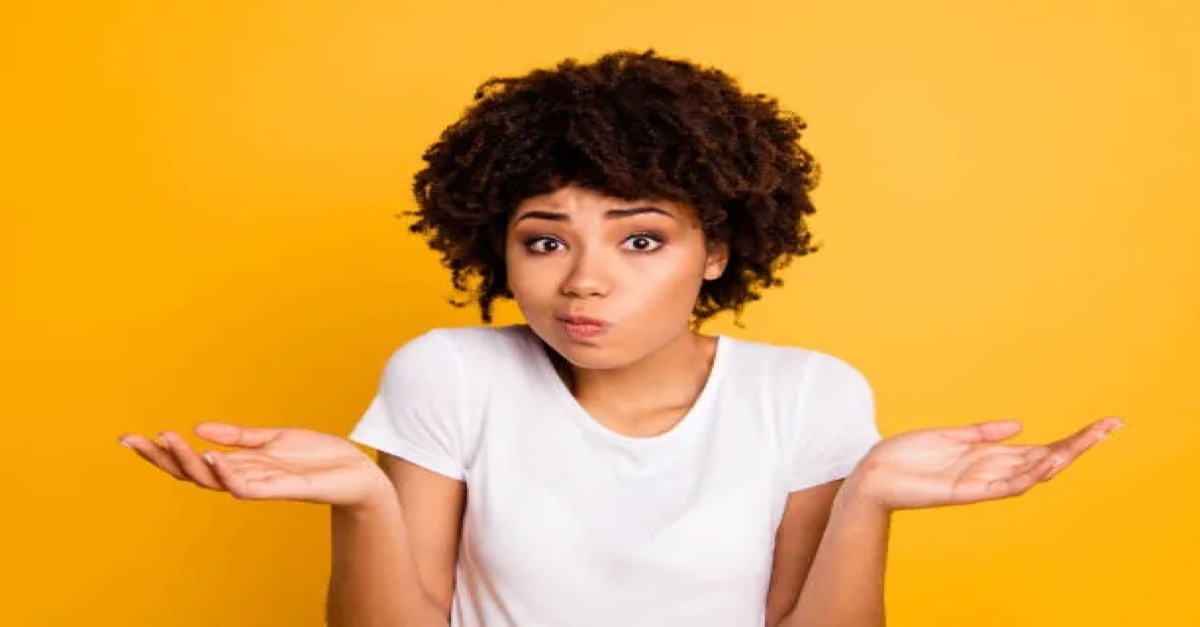
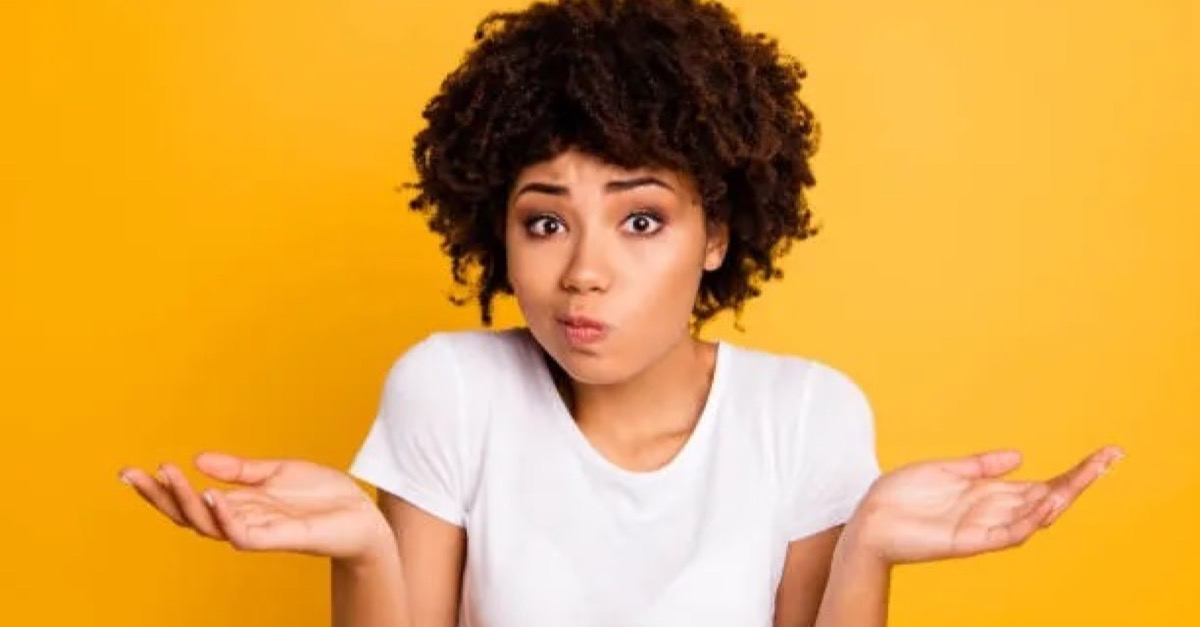
fix: correct image aspect ratios for og images and update logging

Changed region(s): [[0.0925, 0.0, 0.9558, 1.0]]

diff --git a/hooks/useInfoLog.ts b/hooks/useInfoLog.ts
@@ -1,11 +1,17 @@
-import { useEffect } from 'react';
+import { useEffect, useRef } from 'react';
 
 export default function useInfoLog(): void {
+  const hasRun = useRef(false);
   useEffect(() => {
+    if (hasRun.current) return;
+    hasRun.current = true;
     console.log('%cHi Everyone!', 'color: lime; font-size: 50px');
     console.log(
-      "%cLife is short, so make it good. Love yourself, do for others, and take it but take lite. --Naeem",
+      "%cLife is short, so make it good. Love yourself, do for others, and take it but take lite.",
       'color: lime; font-size: 30px'
+    );
+    console.log(
+      "%c--Naeem",'color: lime; font-size: 30px'
     );
   }, []);
 }
